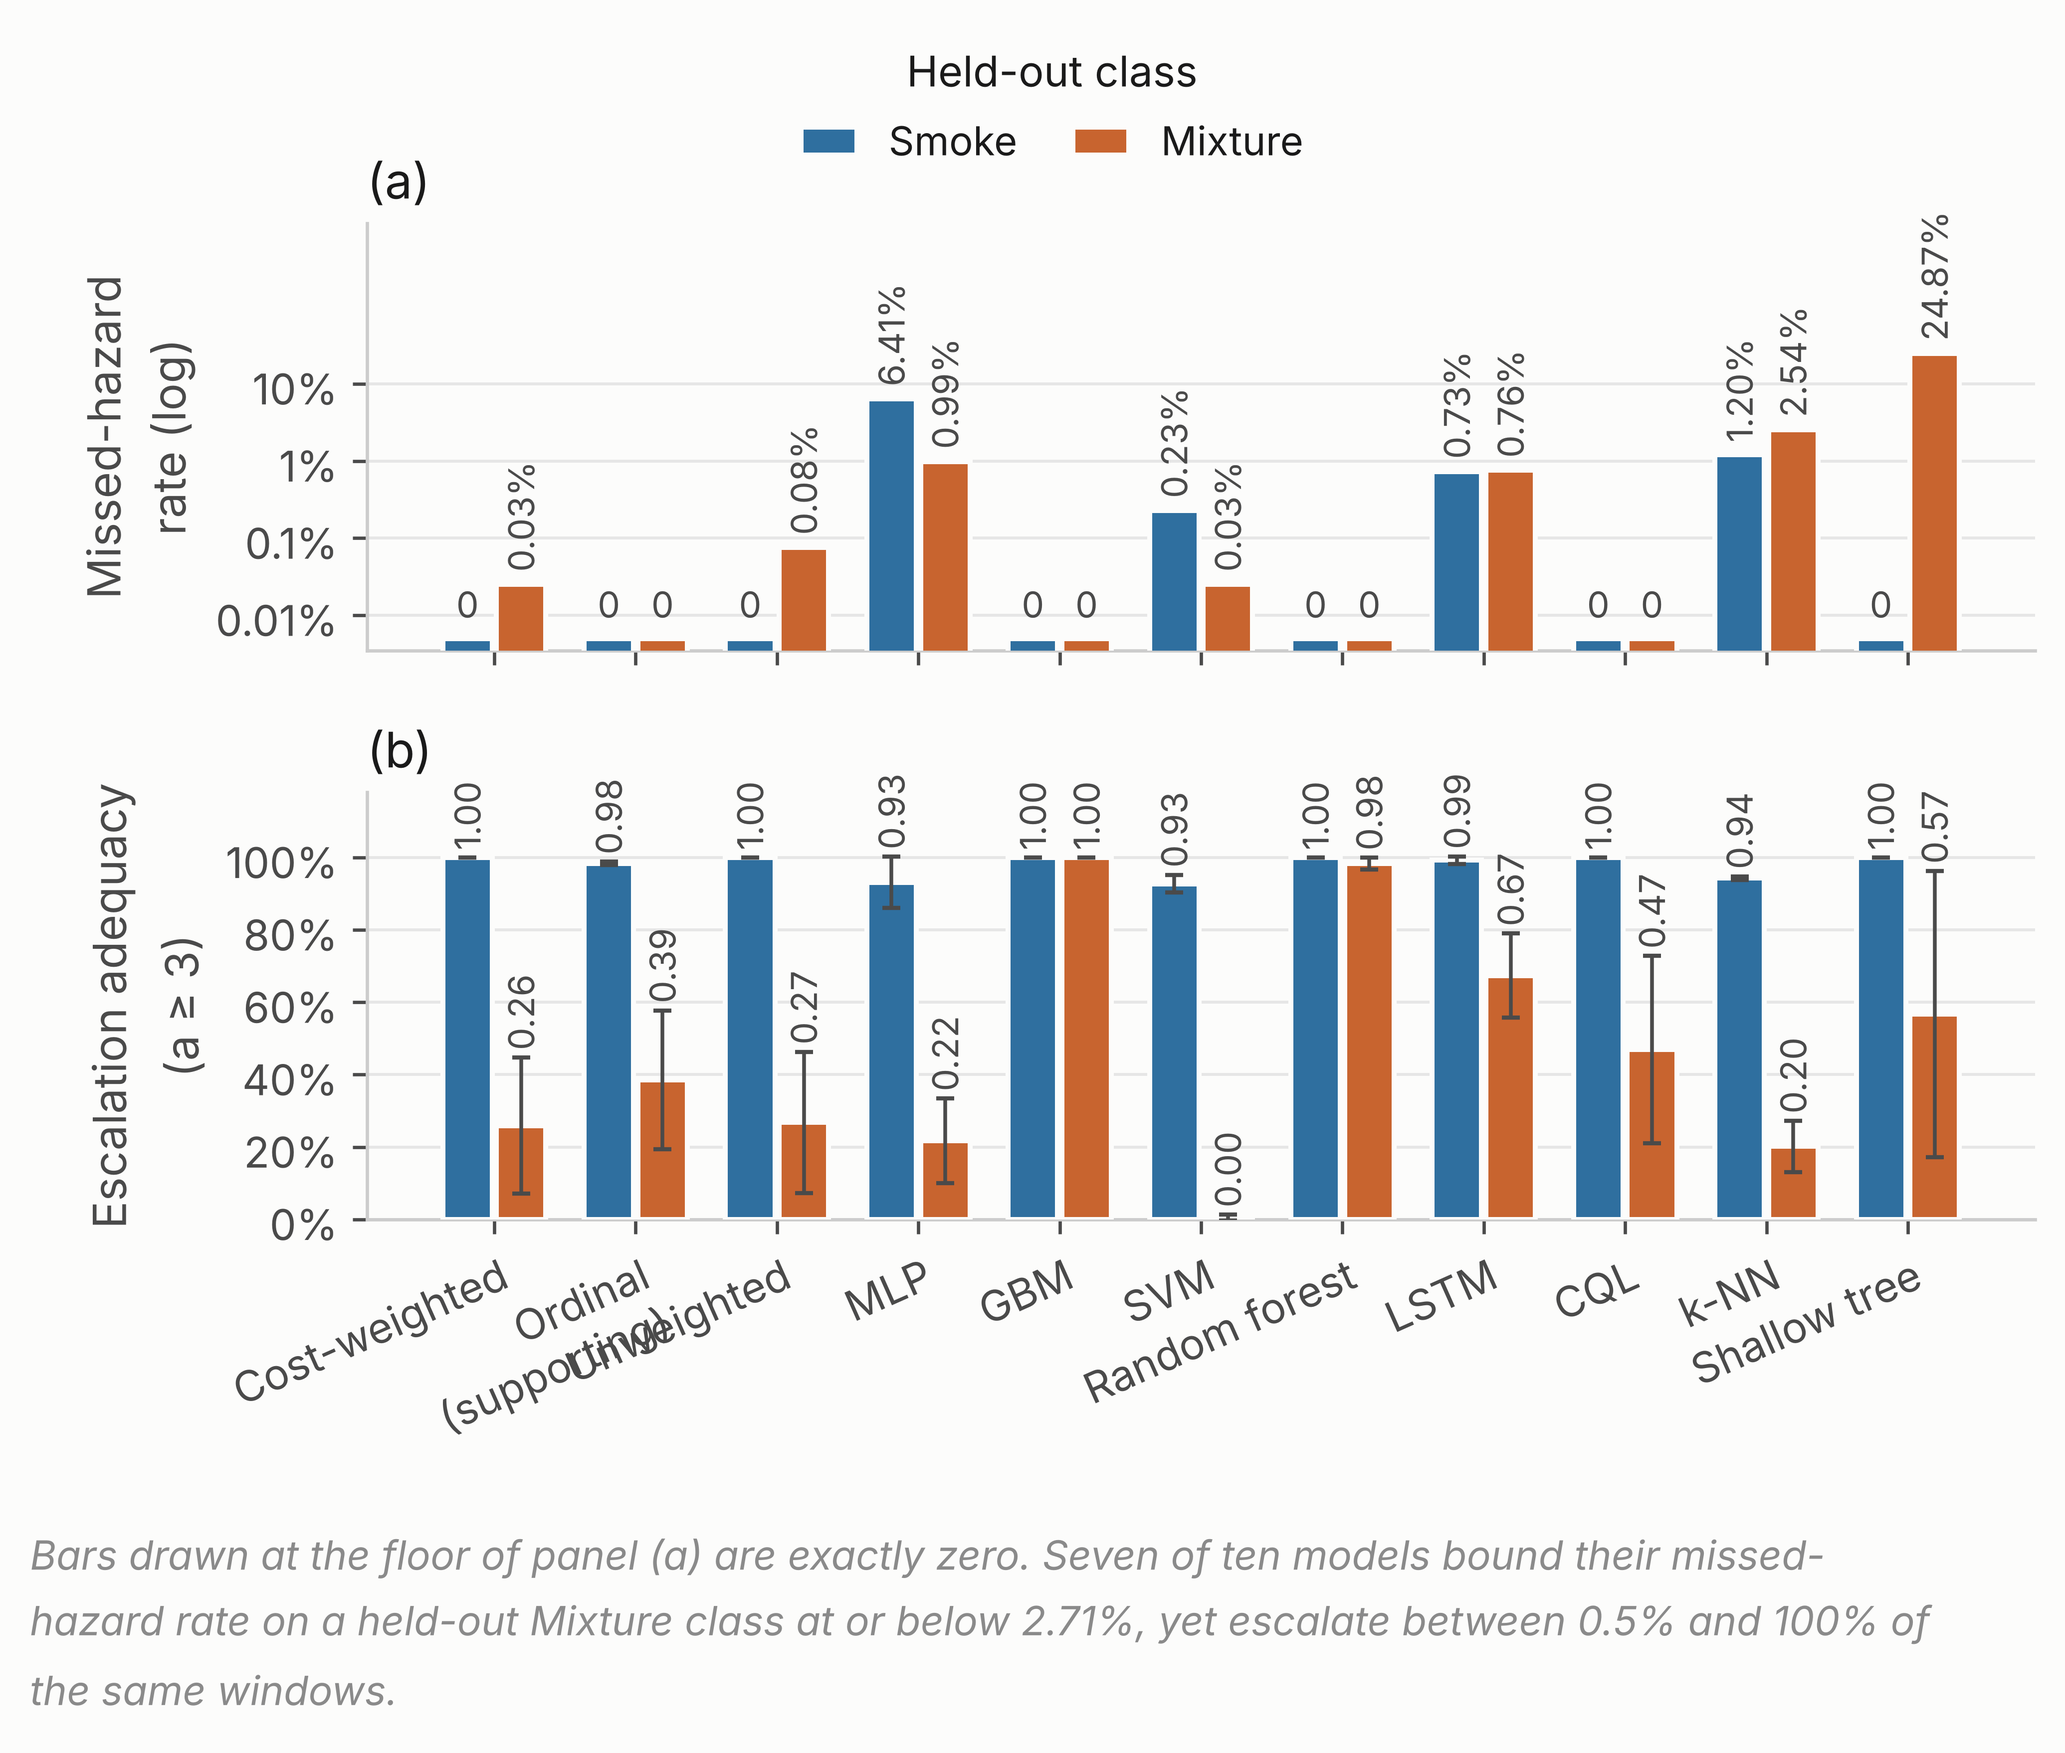
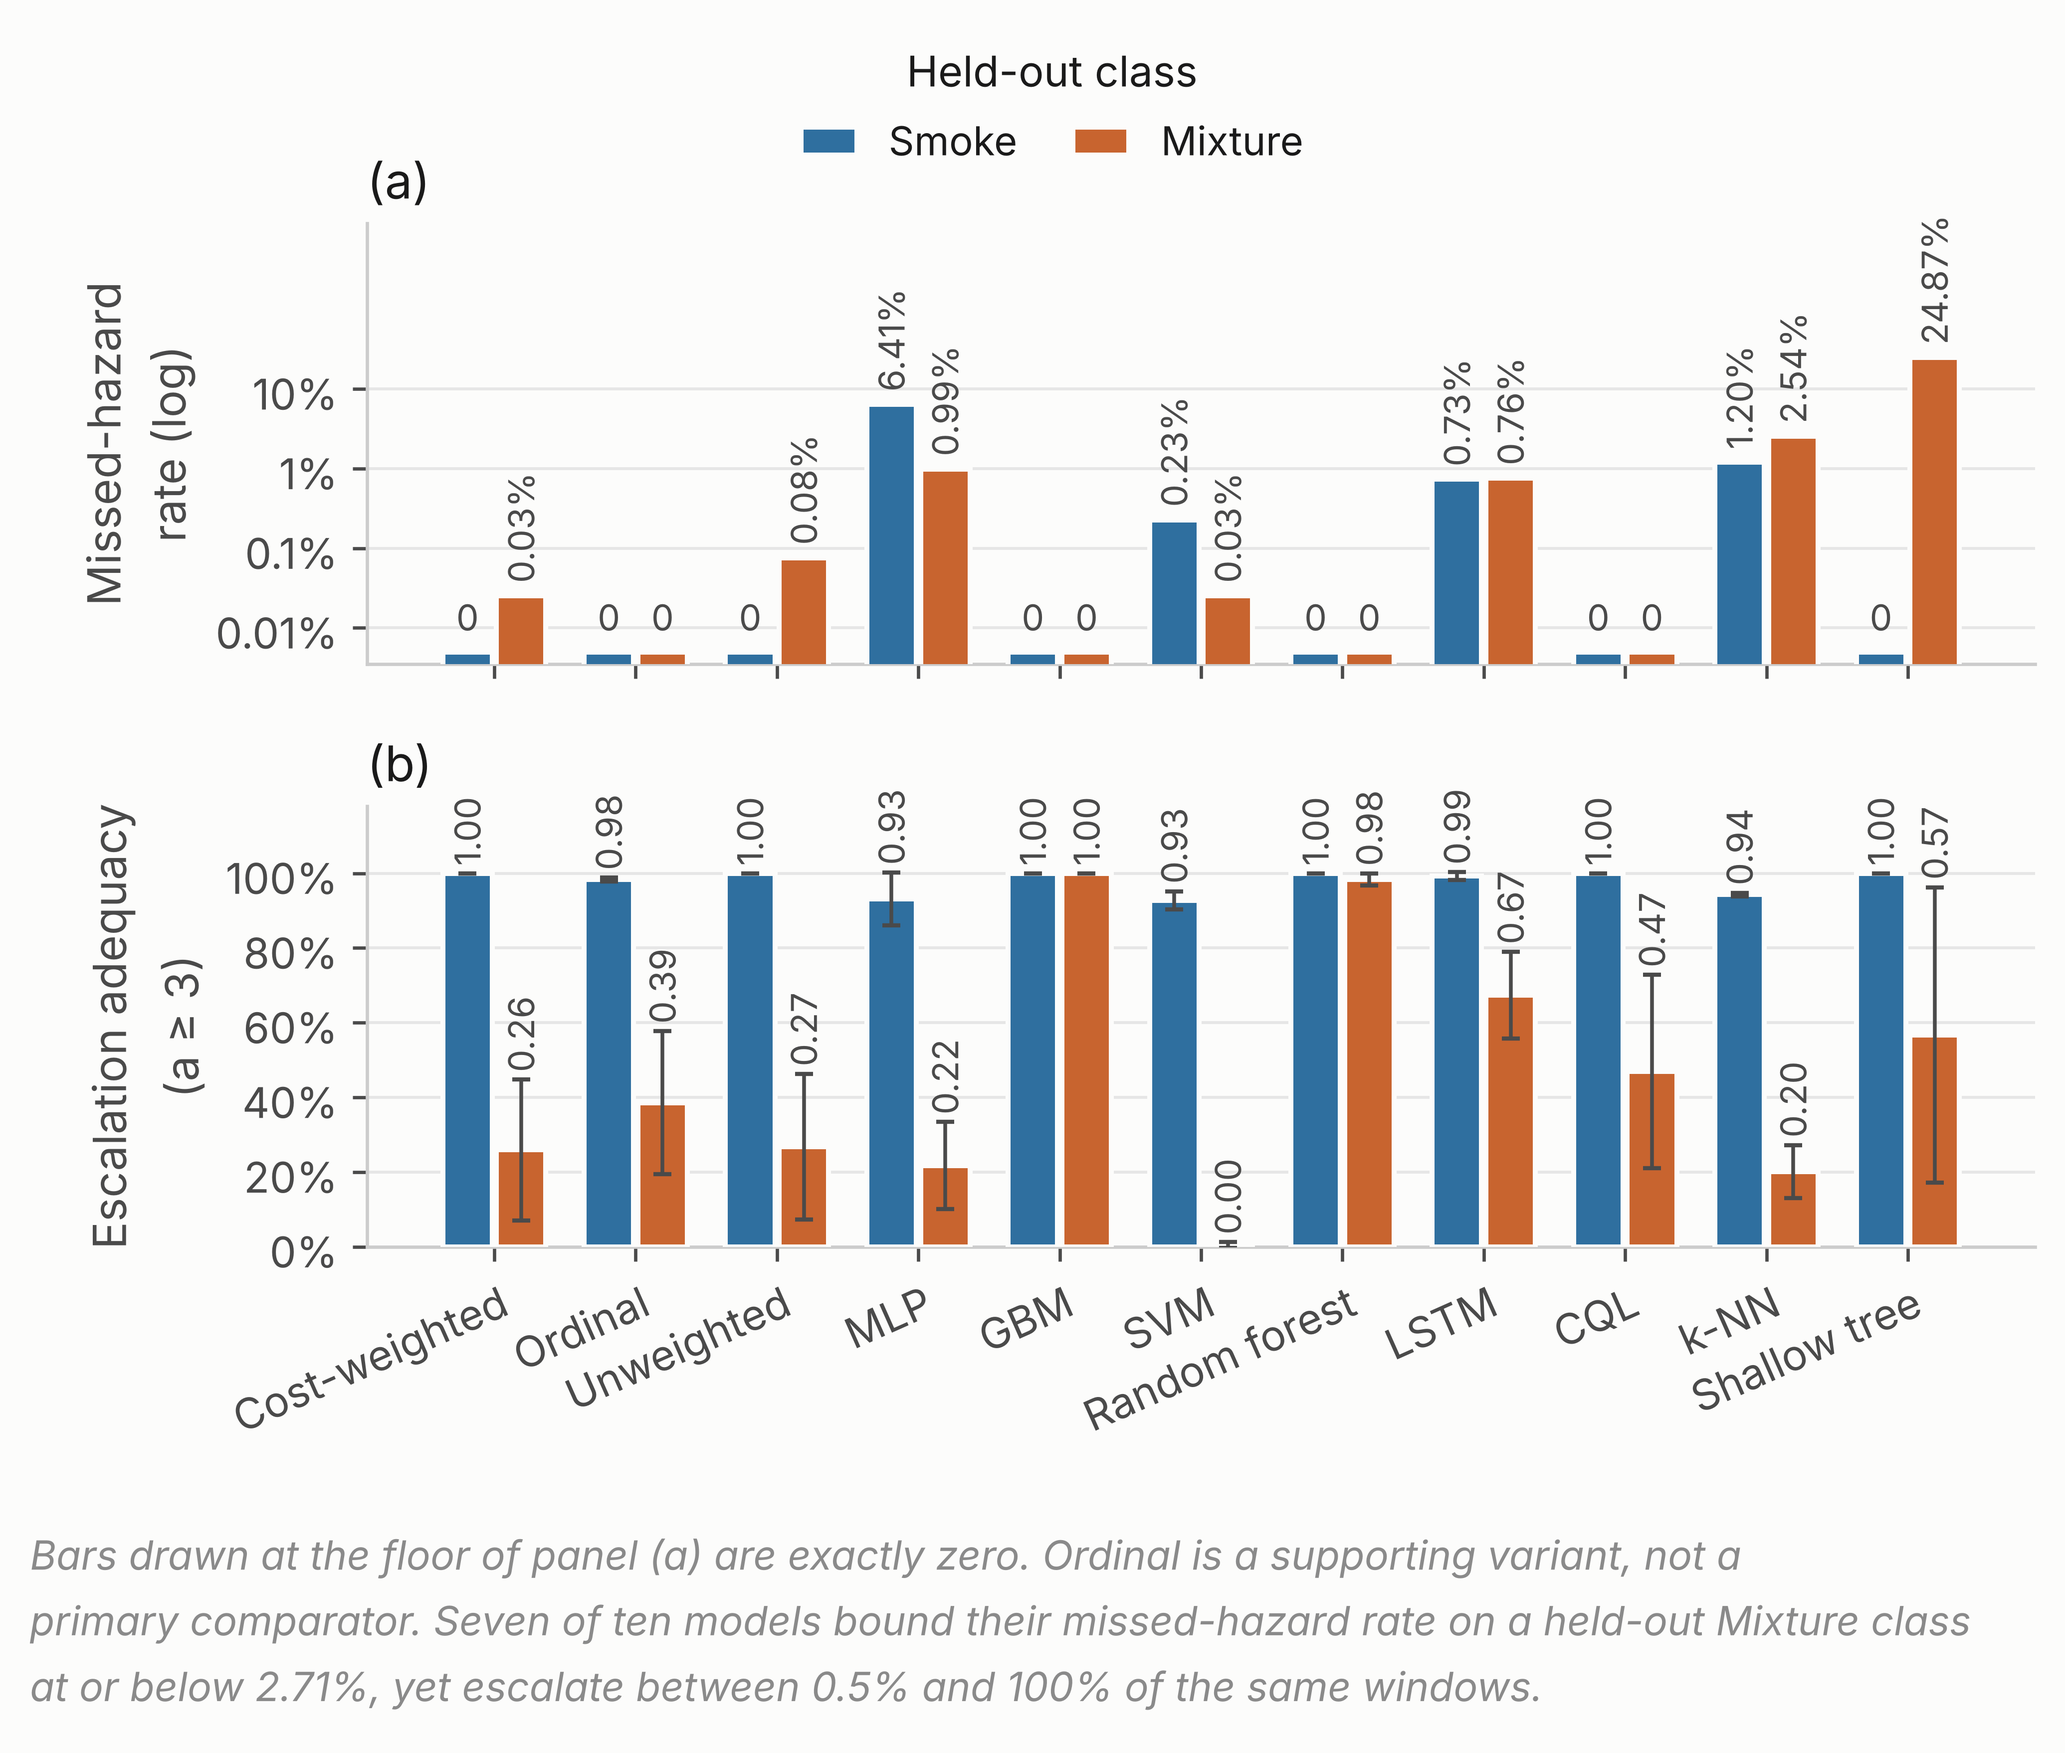
Drop the Ordinal axis label to one word and footnote it
The two-line label collided with its neighbours on the rotated axis of
Fig. 5. The footnote now says that Ordinal is a supporting variant.
Manifest hashes for fig_loco.png and make_figs_v2.py updated by hand.

Claude-Session: https://claude.ai/code/session_018C1Tj1bRjrSAAeN9ooaRRg

diff --git a/retrain/make_figs_v2.py b/retrain/make_figs_v2.py
@@ -151,7 +151,7 @@ def fig_loco():
     ax.set_yticks([0.0, 0.2, 0.4, 0.6, 0.8, 1.0])
     ax.yaxis.set_major_formatter(PercentFormatter(1.0))
     ax.set_xticks(np.arange(len(models)))
-    ax.set_xticklabels([("Ordinal\n(supporting)" if m == "Ordinal" else PRETTY[m]) for m in models], rotation=24, ha="right",
+    ax.set_xticklabels([("Ordinal" if m == "Ordinal" else PRETTY[m]) for m in models], rotation=24, ha="right",
                        rotation_mode="anchor")
     ax.set_ylabel("Escalation adequacy\n(a ≥ 3)", labelpad=2.0, linespacing=1.25)
     ax.set_title("(b)", loc="left")
@@ -165,7 +165,7 @@ def fig_loco():
                handlelength=1.4, columnspacing=1.4)
     fig.tight_layout(rect=(0, 0.115, 1, 0.945), h_pad=1.2)
     note(fig, "Bars drawn at the floor of panel (a) are exactly zero. "
-              "Seven of ten models bound their missed-hazard rate on a held-out Mixture class at or below 2.71%, "
+              "Ordinal is a supporting variant, not a primary comparator. Seven of ten models bound their missed-hazard rate on a held-out Mixture class at or below 2.71%, "
               "yet escalate between 0.5% and 100% of the same windows.", y=0.095)
     fig.savefig(os.path.join(FIG, "fig_loco.png"), dpi=600)
     plt.close(fig)
